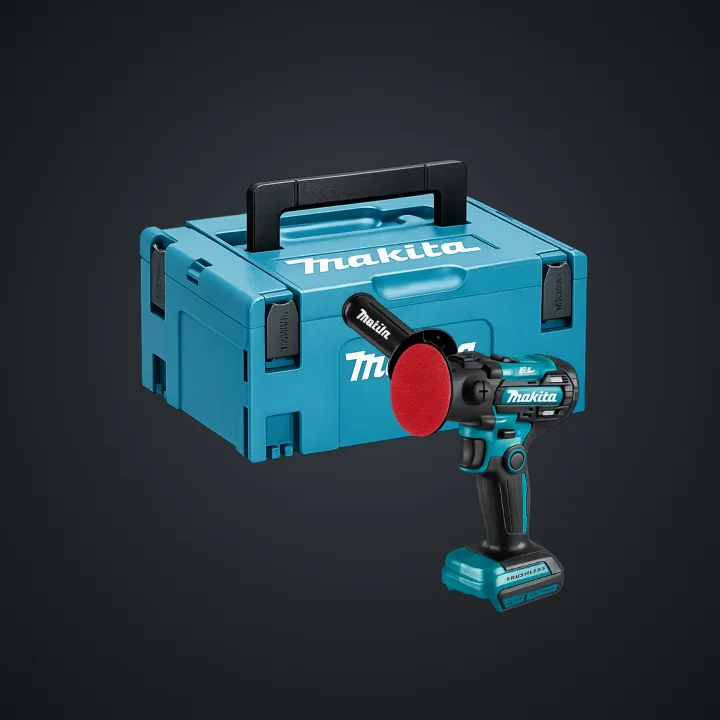
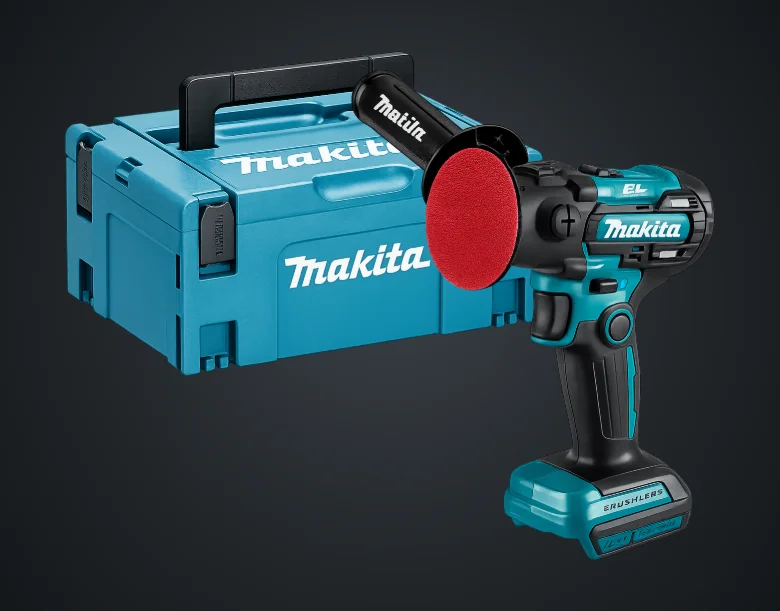
Ponceuse DPV300ZJ (#17) : poster refait depuis le PNG transparent propre
L'user a renvoyé la variante coffret en PNG TRANSPARENT (l'ancienne avait un
fond blanc incrusté — souci du fichier source, pas de l'envoi). Reposé sur le
même fond sombre dégradé que la #16 (rognage des marges transparentes +
centrage). Rendu vérifié, propre. Prix/specs inchangés. Aucun bump SW.

diff --git a/pirates-tools/docs/MAKITA-POSTERS-TODO.md b/pirates-tools/docs/MAKITA-POSTERS-TODO.md
@@ -19,7 +19,7 @@
 14. [x] DTM52Z — Outil multifonctions oscillant 18V LXT brushless StarlockMax AVT (machine seule) — SPECS (Makita/Cotébrico) + POSTER OK ✅
 15. [x] DTP141Z — Visseuse 4 fonctions 18V LXT brushless (perçage/percussion/vissage/choc, machine seule) — SPECS + POSTER OK ✅
 16. [x] DPV300Z — Ponceuse polisseuse 18V LXT Ø75 mm brushless (machine seule) — SPECS + POSTER OK ✅ (variante solo)
-17. [x] DPV300ZJ — Ponceuse polisseuse Ø75 mm en MAKPAC — SPECS + POSTER OK ✅ (fond blanc DÉTOURÉ sur fond sombre ; variante coffret de #16)
+17. [x] DPV300ZJ — Ponceuse polisseuse Ø75 mm en MAKPAC — SPECS + POSTER OK ✅ (v2 : PNG transparent propre reposé sur fond sombre ; variante coffret de #16)
 18. [ ] DRV250ZJ — Riveteuse 18 V Li-Ion BL Ø 6,4 mm (Produit seul)
 19. [ ] DHS680ZJ — Scie circulaire 18V LXT Ø165 mm (Machine seule) en MAKPAC
 20. [ ] DJR189ZJ — Scie sabre récipro 18V LXT (Produit seul) en coffret MAKPAC
